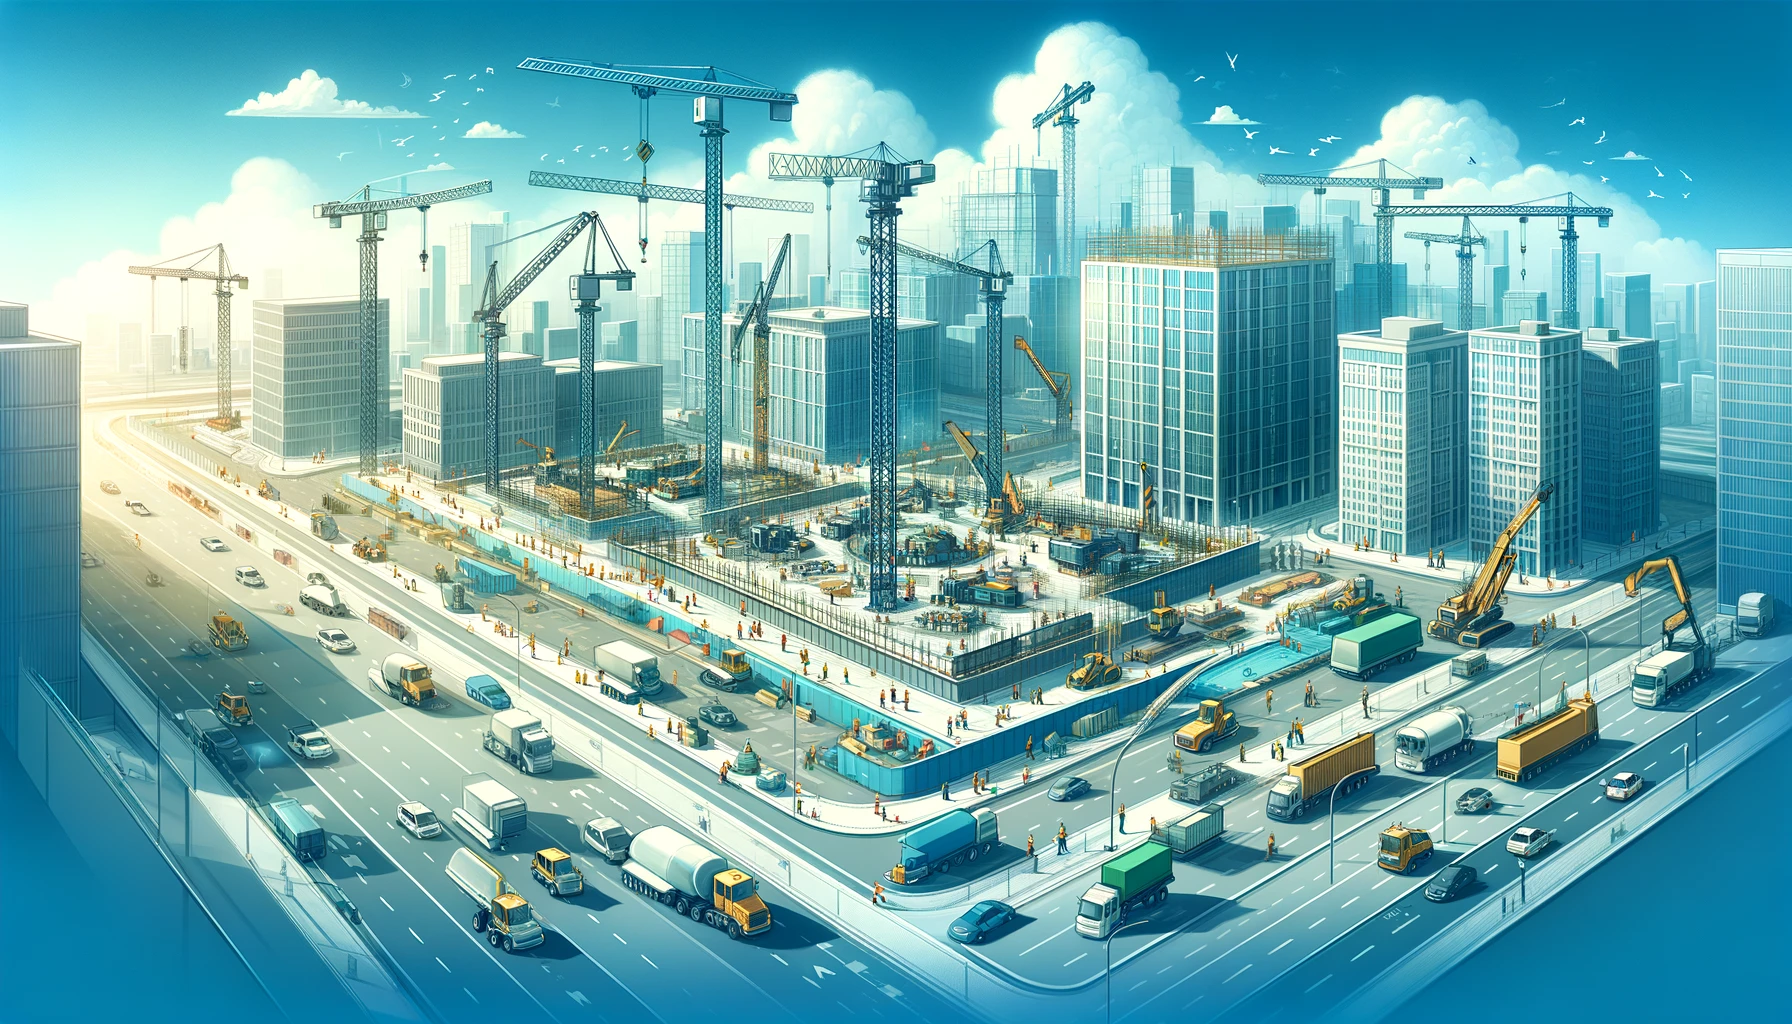
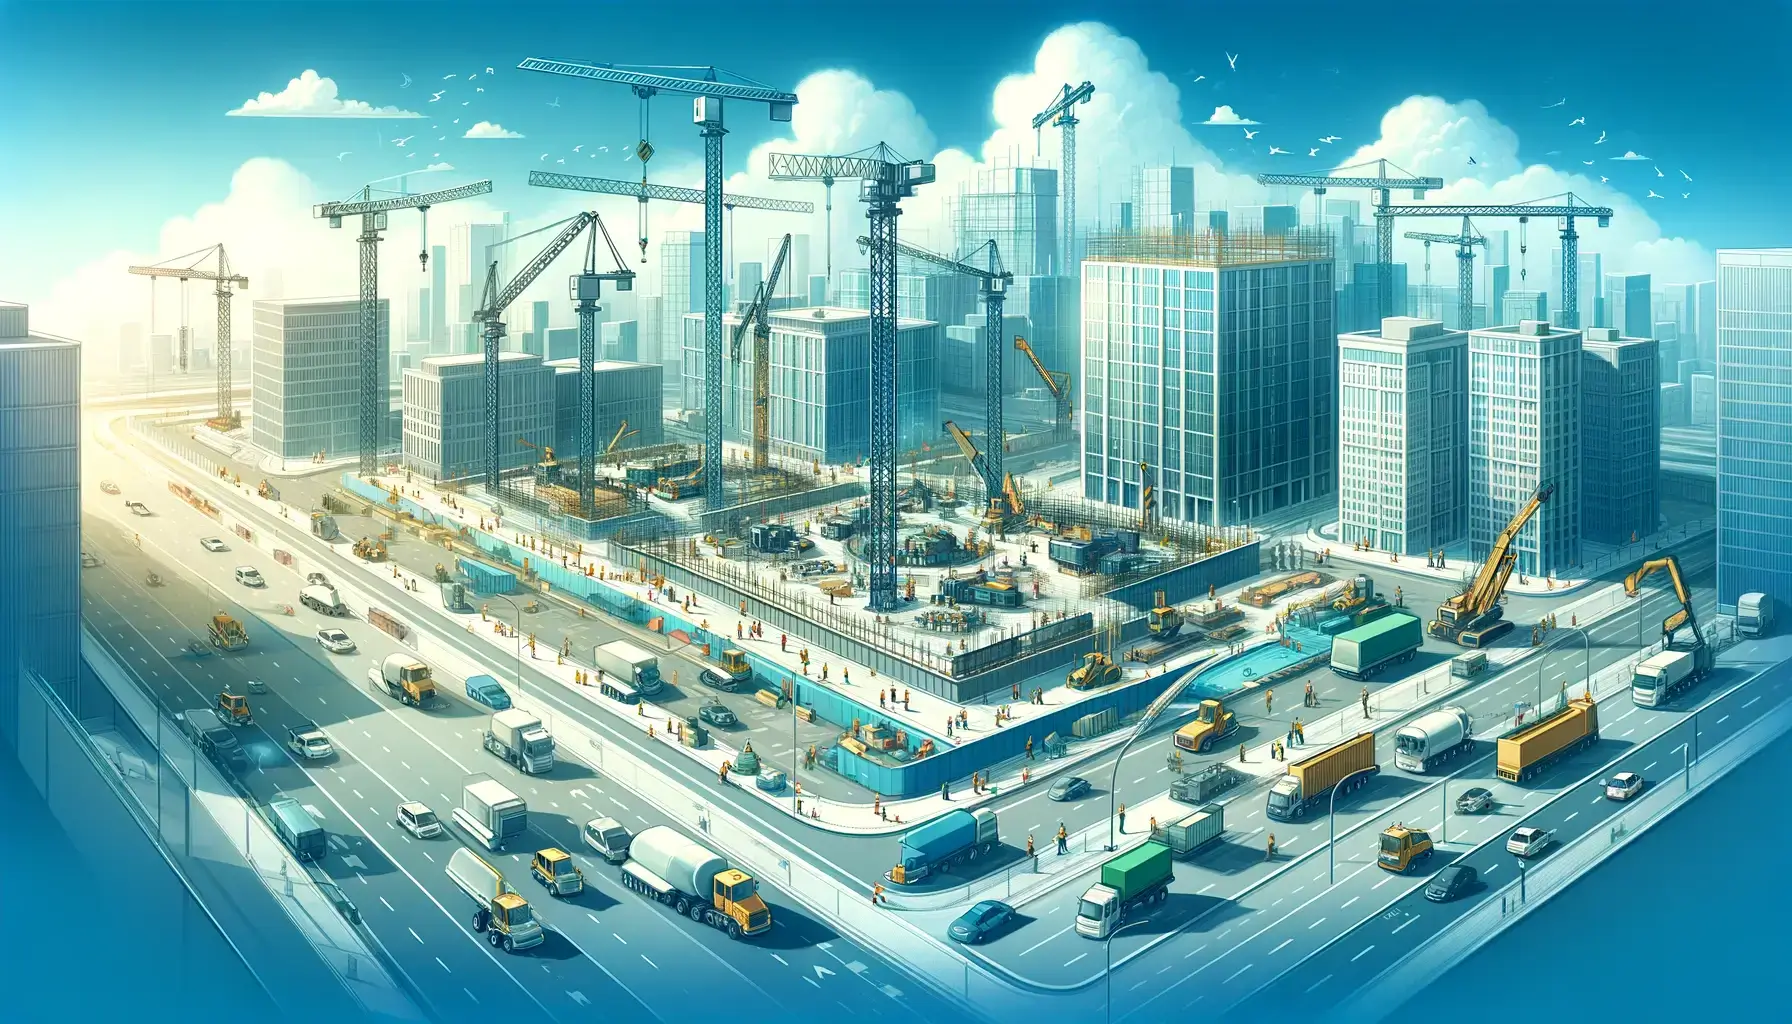
redimationnement des image

Changed region(s): [[0.5938, 0.625, 0.625, 0.6562]]

diff --git a/index.html b/index.html
@@ -14,7 +14,7 @@
 <body>
     <header>
          <div id="header">
-            <img src="assets/images/BTP_mini-Solutions_Logo.png" alt="Logo">
+            <img src="assets/images/BTP_mini-Solutions_Logo.webp" alt="Logo">
             <nav>
                 <ul class="menu">
                     <li><a href="index.html">Acceuil</a></li>
@@ -76,7 +76,7 @@
         <h1>Témoignages</h1>
         <div class="temoignages">
             <div class="item-temoignage">
-                <img src="assets/images/image1.png" alt="image du premier temoigne">
+                <img src="assets/images/image1.webp" alt="image du premier temoigne">
                 <div class="stars">
                     <i class='bx bx-star'></i>
                     <i class='bx bx-star'></i>
@@ -89,7 +89,7 @@
                 </p>
             </div>
             <div class="item-temoignage">
-                <img src="assets/images/image2.png" alt="image du second temoigne">
+                <img src="assets/images/image2.webp" alt="image du second temoigne">
                 <div class="stars">
                     <i class='bx bx-star'></i>
                     <i class='bx bx-star'></i>
@@ -102,7 +102,7 @@
                 </p>
             </div>
             <div class="item-temoignage">
-                <img src="assets/images/image3.png" alt="image du troisieme temoigne">
+                <img src="assets/images/image3.webp" alt="image du troisieme temoigne">
                 <div class="stars">
                     <i class='bx bx-star'></i>
                     <i class='bx bx-star'></i>

diff --git a/assets/css/style.css b/assets/css/style.css
@@ -33,7 +33,7 @@ header{
     justify-content: center;
     align-items: center;
     background-color: var(--gossamer);
-    padding: 20px 0;
+    padding: 10px 0;
     position: fixed;
 }
 
@@ -69,8 +69,10 @@ header{
     display: flex;
     justify-content: center;
     align-items: center;
-    background-image: url(../images/Image.png);
+    background-image: url(../images/Image.webp);
     background-size: cover;
+    background-position: center;
+
     height: 100vh;
 }
 #heros .container{
